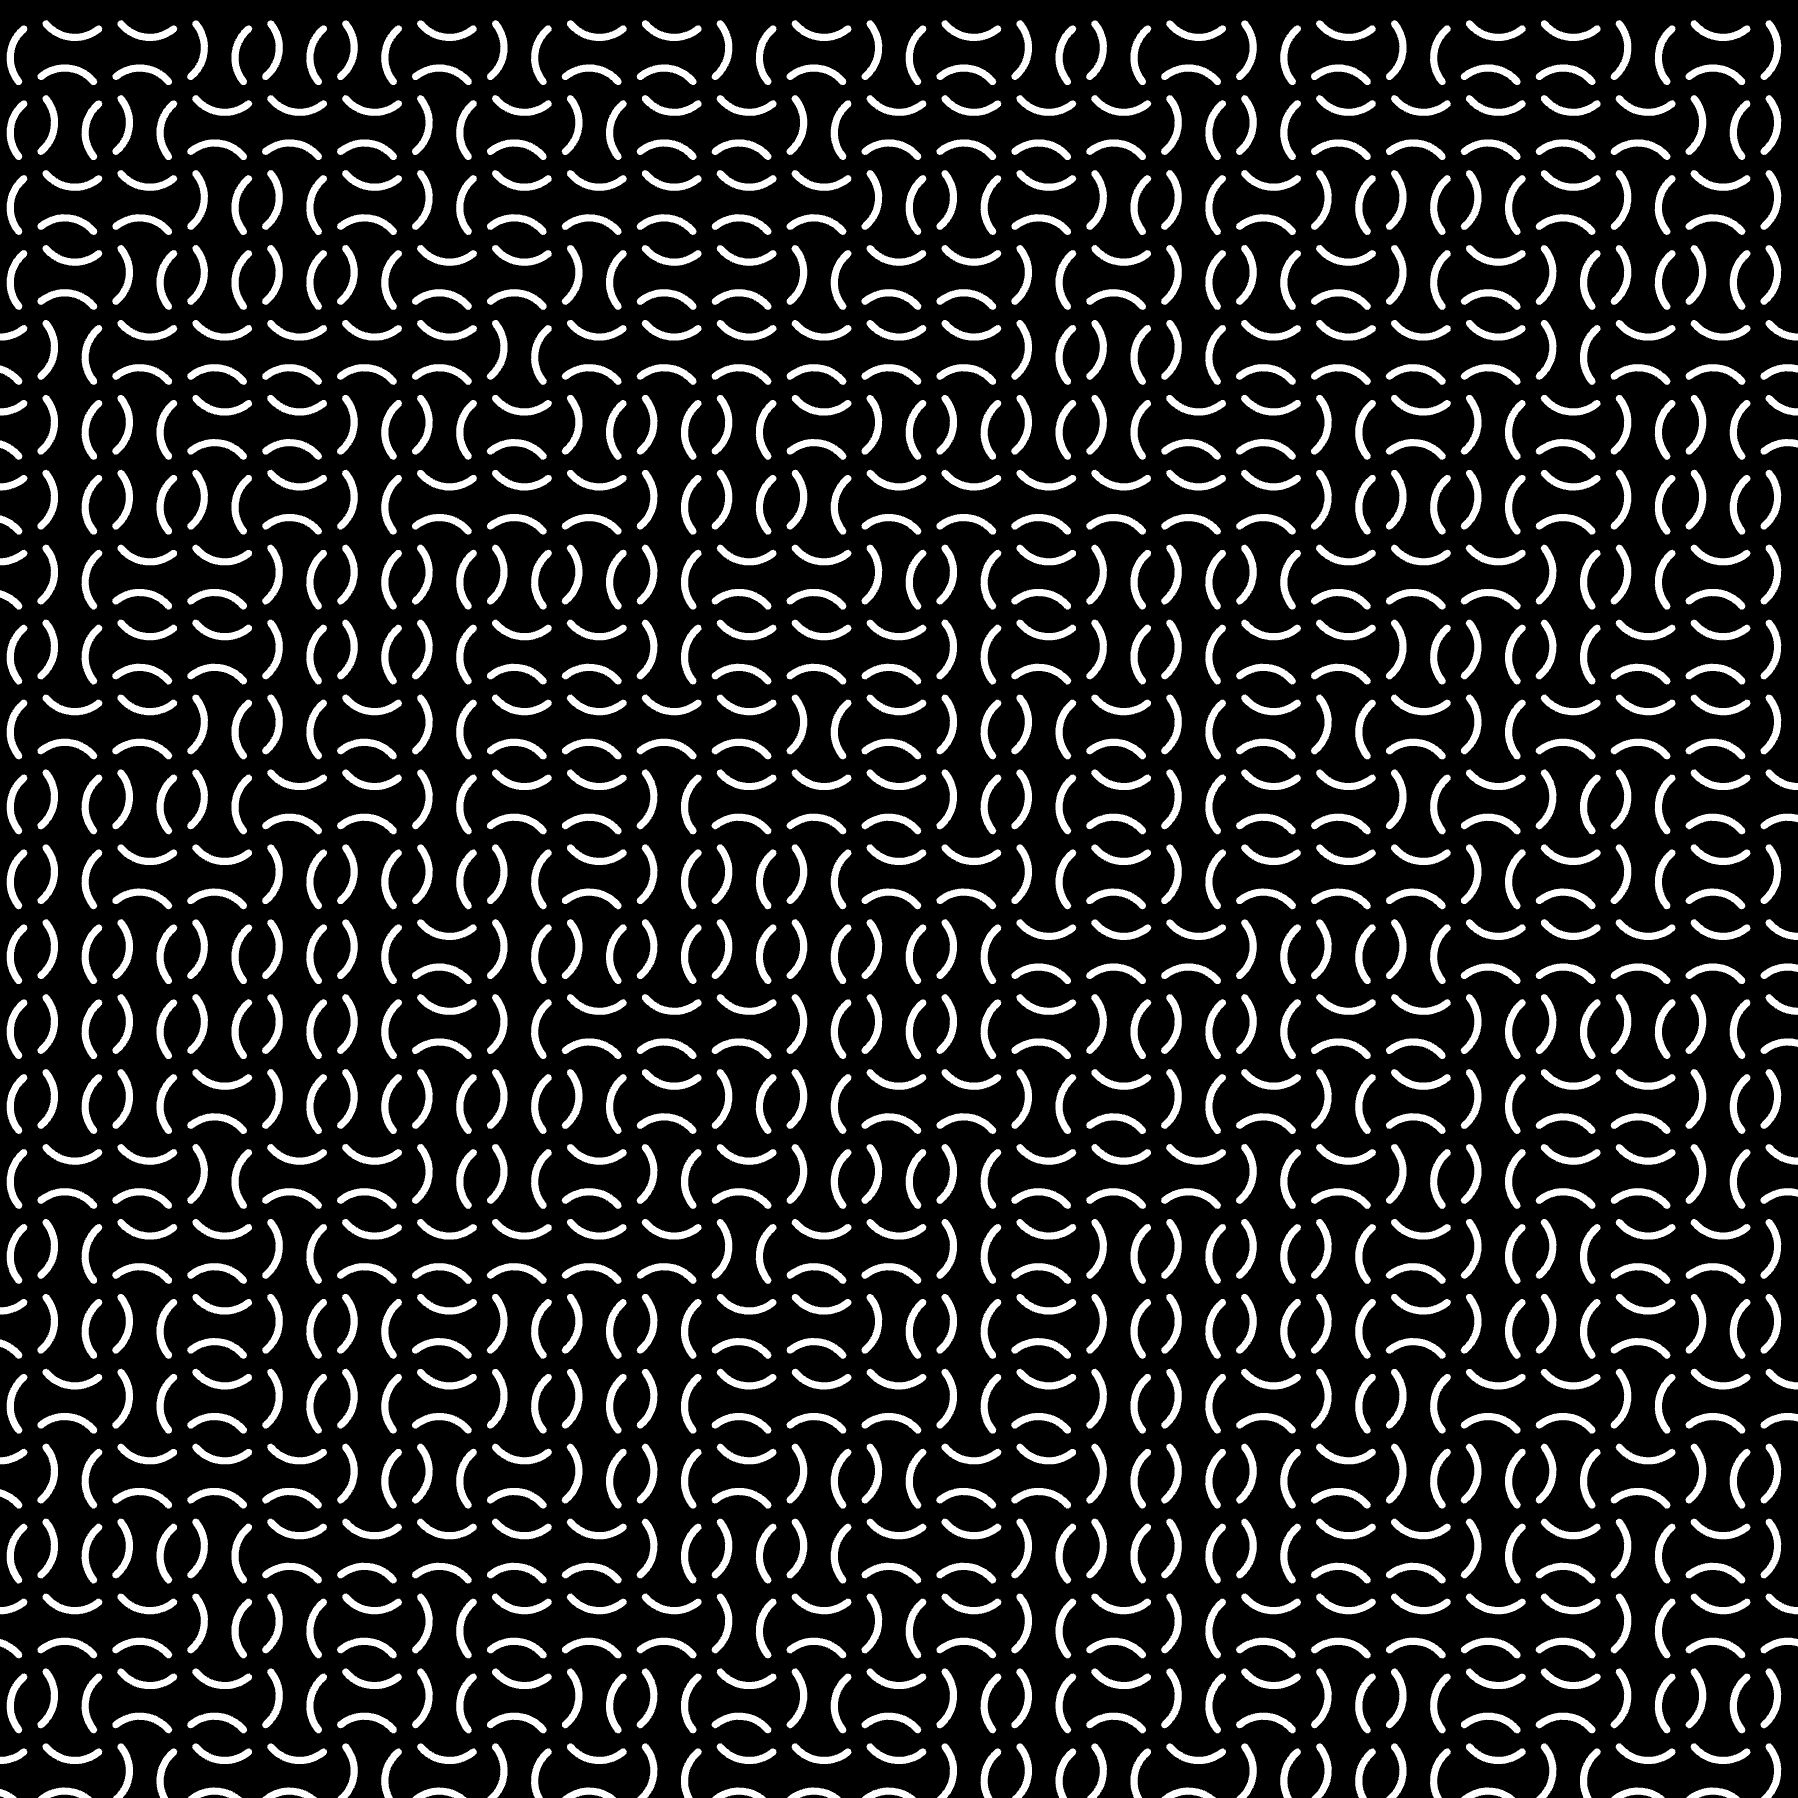
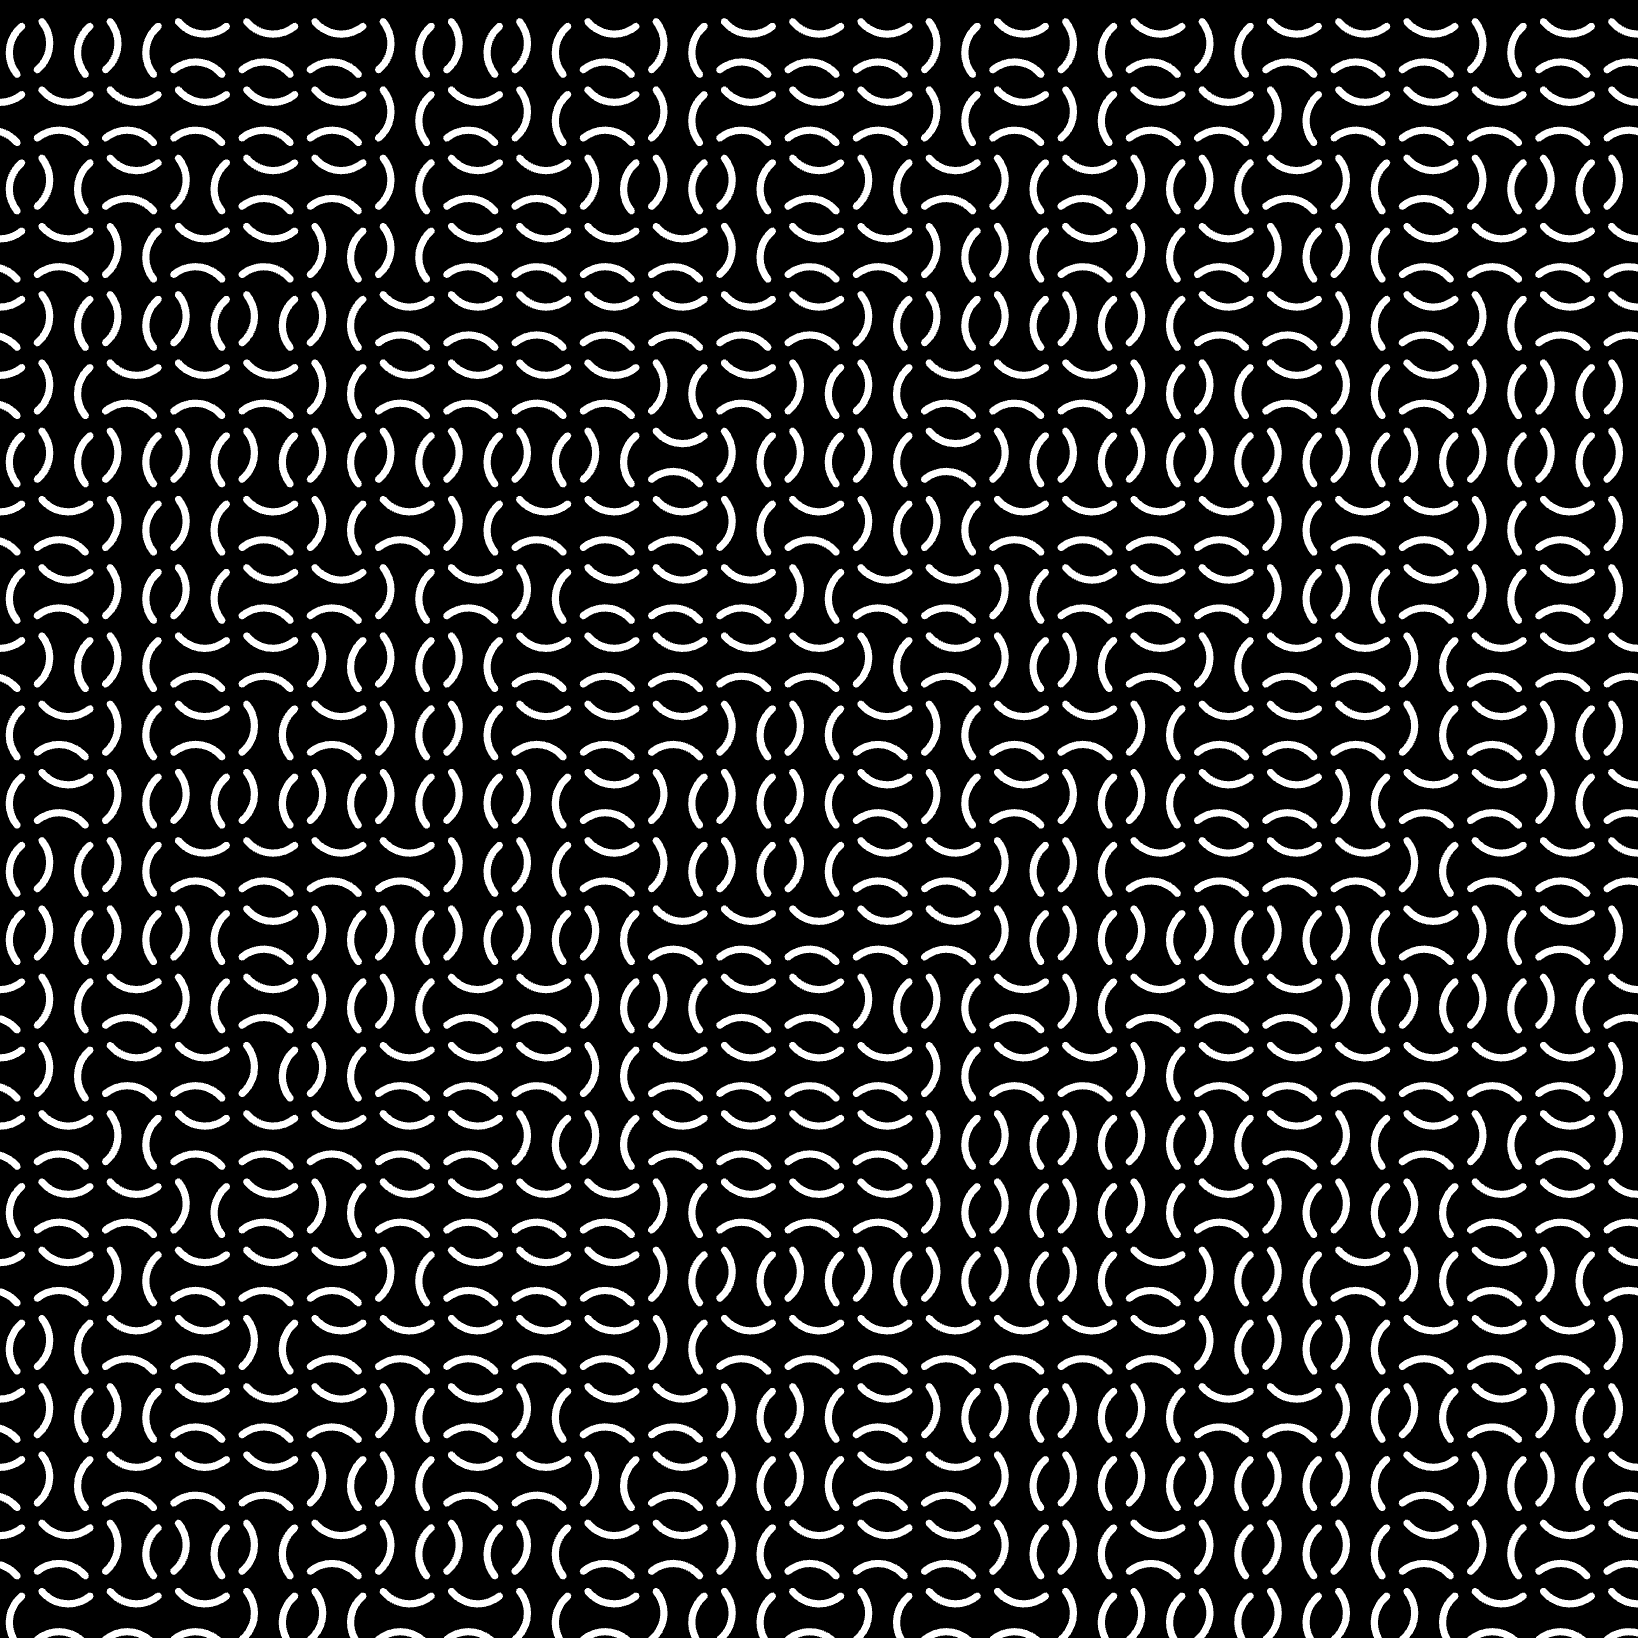
fix height

diff --git a/public/s/brain-damage/script.js b/public/s/brain-damage/script.js
@@ -9,10 +9,11 @@ const BRAIN_DAMAGE = (p5, el) => {
     let tileSize = 0;
     let tileType = [];
     p5.setup = () => {
-        p5.createCanvas(p5.windowHeight, p5.windowHeight);
-        tileSize = p5.windowHeight / 24;
-        rows = p5.floor(p5.windowHeight / tileSize);
-        cols = p5.floor(p5.windowHeight / tileSize);
+        const { height } = el.getBoundingClientRect();
+        p5.createCanvas(height, height);
+        tileSize = height / 24;
+        rows = p5.floor(height / tileSize);
+        cols = p5.floor(height / tileSize);
 
         for (let i = 0; i <= rows; i++) {
             const row = [];
